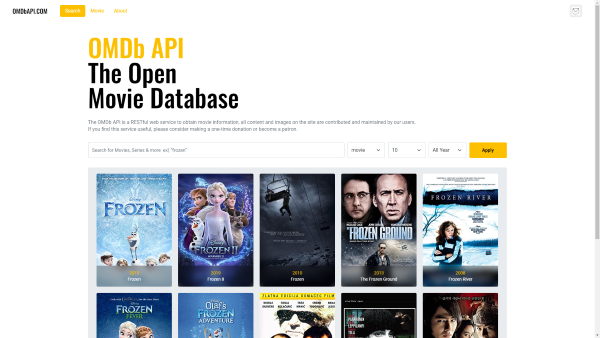
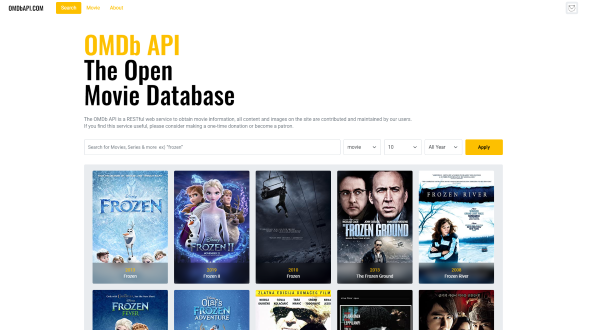
5월10일 오늘 하루 끝!

diff --git a/src/components/Works.vue b/src/components/Works.vue
@@ -4,10 +4,15 @@
       class="workBox"
       v-for="work in works"
       :key="work"
-      :href="work.href">
+      :href="work.href"
+      target="_blank">
       <img
         :src="work.image"
         alt="Work" />
+      <div class="textBox">
+        <h1>{{ work.name }}</h1>
+        <p>{{ work.info }}</p>
+      </div>
     </a>
   </div>
 </template>
@@ -19,14 +24,16 @@ export default {
     return {
       works: [
         {
-          name: 'omdbApi',
+          name: 'OMDbApi 영화 검색 사이트',
           href: 'https://movie-search-app-vue3.netlify.app',
-          image: 'src/assets/omdb.png'
+          image: 'src/assets/omdb.png',
+          info: ''
         },
         {
-          name: 'starBucks',
+          name: '2017 Starbucks',
           href: 'https://starbucks-gunw.netlify.app',
-          image: 'src/assets/starbucks.png'
+          image: 'src/assets/starbucks.png',
+          info: ''
         }
       ]
     }
@@ -41,9 +48,22 @@ $imgSize: 300px;
     justify-content: center;
     .workBox {
       padding: 50px 50px;
+      text-decoration: none;
       img {
         width: $imgSize * 16/9;
         height: $imgSize;
+        border: 1px solid black;
+      }
+      .textBox {
+        display: flex;
+        justify-content: center;
+        h1 {
+          color: $black;
+          font-size: 15px;
+          font-weight: 700;
+          margin-top: 10px;
+          box-sizing: border-box;
+        }
       }
     }
   }

diff --git a/src/components/Header.vue b/src/components/Header.vue
@@ -24,15 +24,15 @@ export default ({
     return {
       navigations: [
         {
-          name: '홈',
+          name: 'Home',
           href: '/'
         },
         {
-          name: '작업물',
+          name: 'Products',
           href: '/products'
         },
         {
-          name: '소개',
+          name: 'About',
           href: '/about'
         }
       ]
@@ -44,23 +44,31 @@ export default ({
 
 <style lang="scss" scoped>
 header {
-  background-color: $personal;
+  // background-color: $personal;
   display: flex;
   justify-content: center;
   box-sizing: border-box;
+  border-bottom: 3px solid $black;
+  z-index: 99;
   .nav {
-    width: 300px;
     margin: 10px 0 10px 0;
-    font-size: 18px;
-    font-weight: bold;
     .nav-item {
-      width: 33.3333333%;
+      width: 100px;
+      margin-left: 20px;
+      &:first-child {
+        margin-left: 0;
+      }
       .nav-link {
-        color: #fff;
+        font-size: 18px;
+        font-weight: bold;
+        color: $black;
         text-align: center;
         transition: .3s;
+        &.active {
+          color: $white;
+        }
         &:hover {
-          color: $gray-500;
+          color: $gray-400;
         }
       }
     }

diff --git a/src/routes/Home.vue b/src/routes/Home.vue
@@ -22,6 +22,13 @@ export default {
   height: calc(100vh - 84px);
   position: relative;
   .image {
+    
+    // 드래그(drag) 방지
+    -webkit-user-select: none;
+    -moz-user-select: none;
+    -ms-user-select: none;
+    user-select: none;
+
     position: absolute;
     top: 50%;
     left: 50%;
